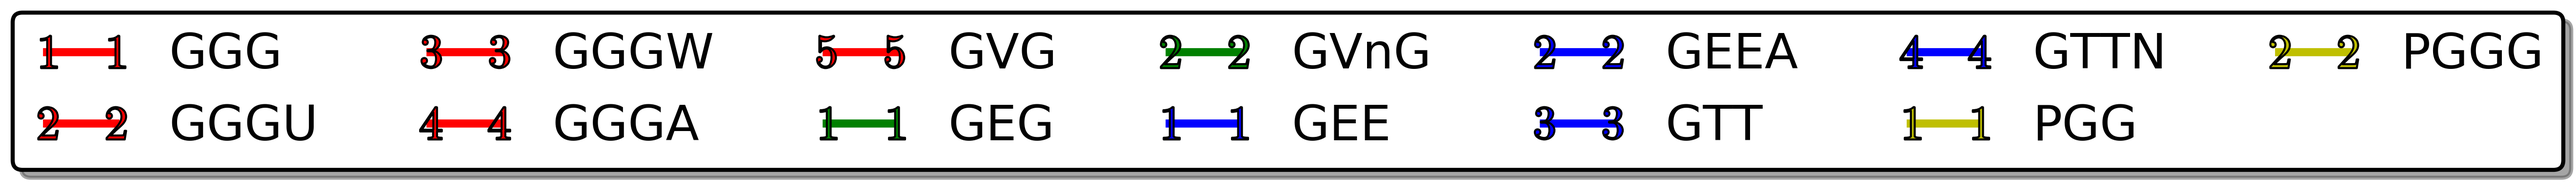
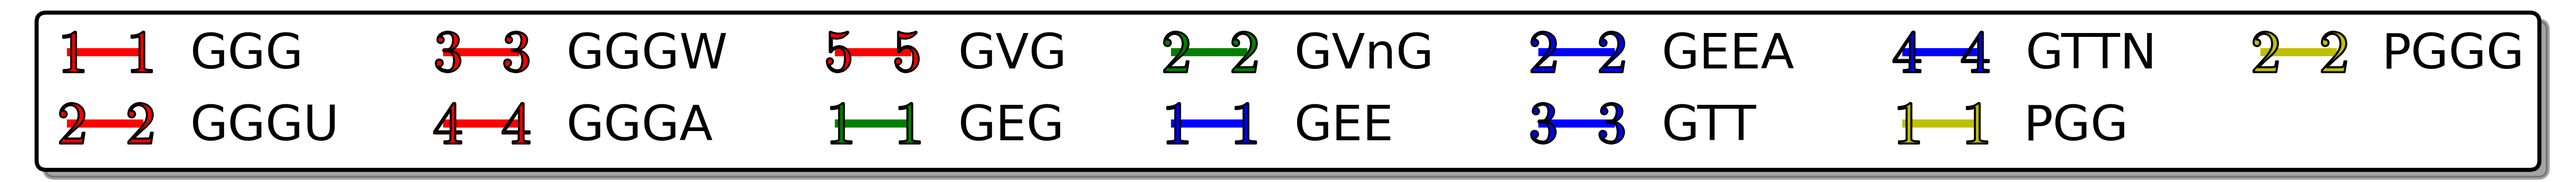
Make markers bigger in sparsity and model selection plots.@

diff --git a/experiments/model_selection/movielens_100K/plots/plot_model_selection.py b/experiments/model_selection/movielens_100K/plots/plot_model_selection.py
@@ -58,7 +58,7 @@ x = values_K[:-1]
 for performances, name, colour, linestyle, marker in performances_names_colours_linestyles_markers:
     y = numpy.mean(performances["MSE"],axis=1)[:-1]
     plt.plot(x, y, label=name, linestyle=linestyle, marker=('$%s$' % marker), c=colour,
-             markersize=4, linewidth=1.5)
+             markersize=5, linewidth=1.5)
 
 plt.xticks(fontsize=6)
 plt.yticks(numpy.arange(0,MSE_max+1,0.1),fontsize=6)

diff --git a/experiments/sparsity/drug_sensitivity_gdsc/plots/plot_sparsity.py b/experiments/sparsity/drug_sensitivity_gdsc/plots/plot_sparsity.py
@@ -57,7 +57,7 @@ x = fractions_unknown
 for performances, name, colour, linestyle, marker in performances_names_colours_linestyles_markers:
     y = numpy.mean(performances["MSE"],axis=1)
     plt.plot(x, y, label=name, linestyle=linestyle, marker=('$%s$' % marker), c=colour, 
-             markersize=3, linewidth=0.8)
+             markersize=5, linewidth=1)
 
 plt.xticks(fontsize=6)
 plt.yticks(numpy.arange(0,MSE_max+1,100),fontsize=6)

diff --git a/experiments/sparsity/movielens_100K/plots/plot_sparsity.py b/experiments/sparsity/movielens_100K/plots/plot_sparsity.py
@@ -57,7 +57,7 @@ x = fractions_unknown
 for performances, name, colour, linestyle, marker in performances_names_colours_linestyles_markers:
     y = numpy.mean(performances["MSE"],axis=1)
     plt.plot(x, y, label=name, linestyle=linestyle, marker=('$%s$' % marker), c=colour, 
-             markersize=3, linewidth=0.8)
+             markersize=5, linewidth=1)
 
 plt.xticks(fontsize=6)
 plt.yticks(numpy.arange(0,MSE_max+1,0.1),fontsize=6)

diff --git a/experiments/model_selection/drug_sensitivity_gdsc/plots/plot_model_selection.py b/experiments/model_selection/drug_sensitivity_gdsc/plots/plot_model_selection.py
@@ -60,7 +60,7 @@ x = values_K
 for performances, name, colour, linestyle, marker in performances_names_colours_linestyles_markers:
     y = numpy.mean(performances["MSE"],axis=1)
     plt.plot(x, y, label=name, linestyle=linestyle, marker=('$%s$' % marker), c=colour, 
-             markersize=4, linewidth=1.5)
+             markersize=5, linewidth=1.5)
 
 plt.xticks(fontsize=6)
 plt.yticks(range(0,MSE_max+1,50),fontsize=6)
